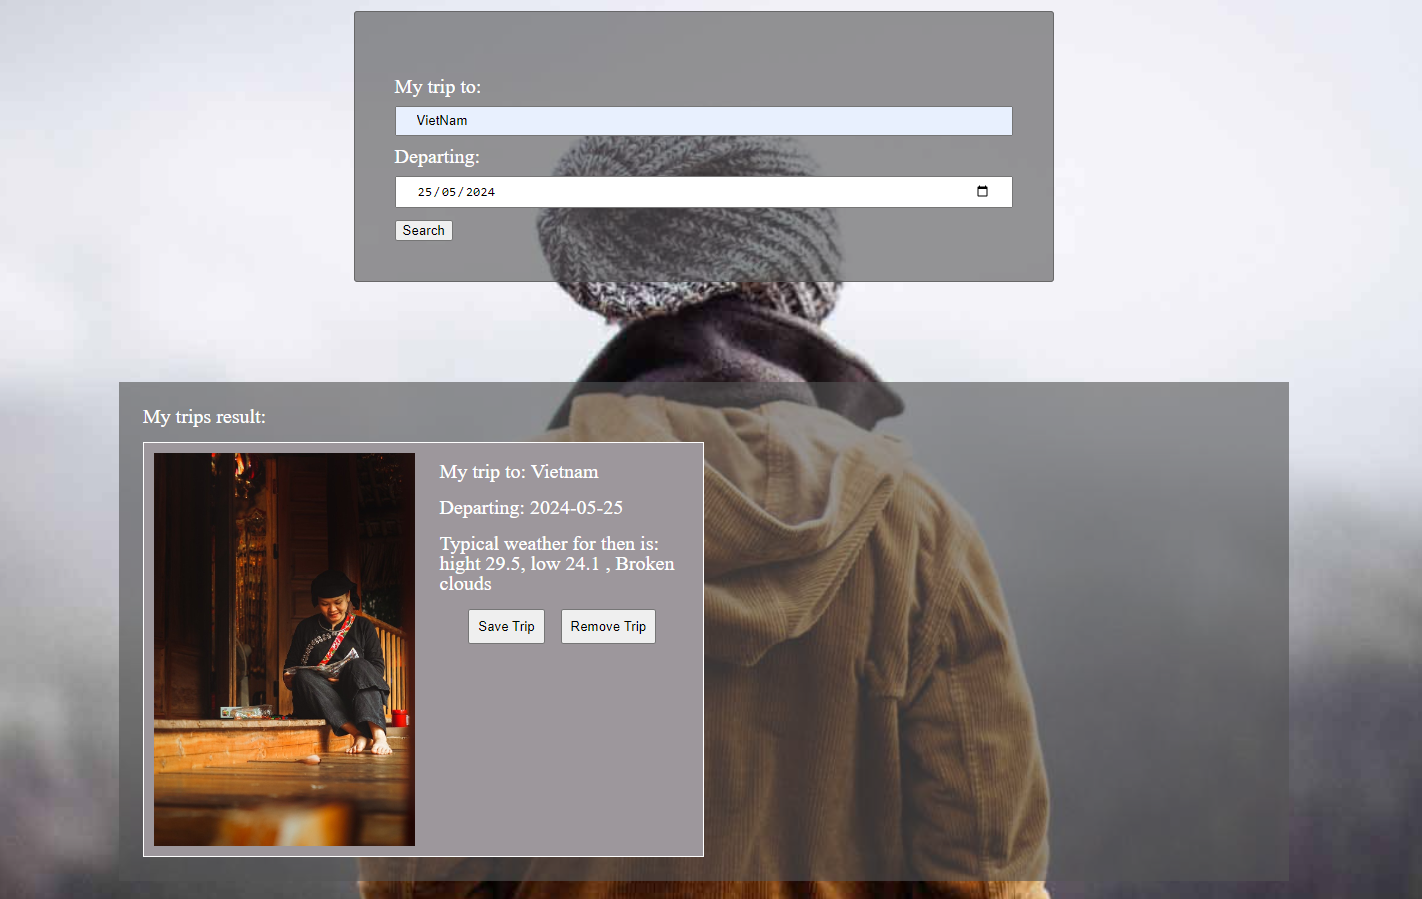
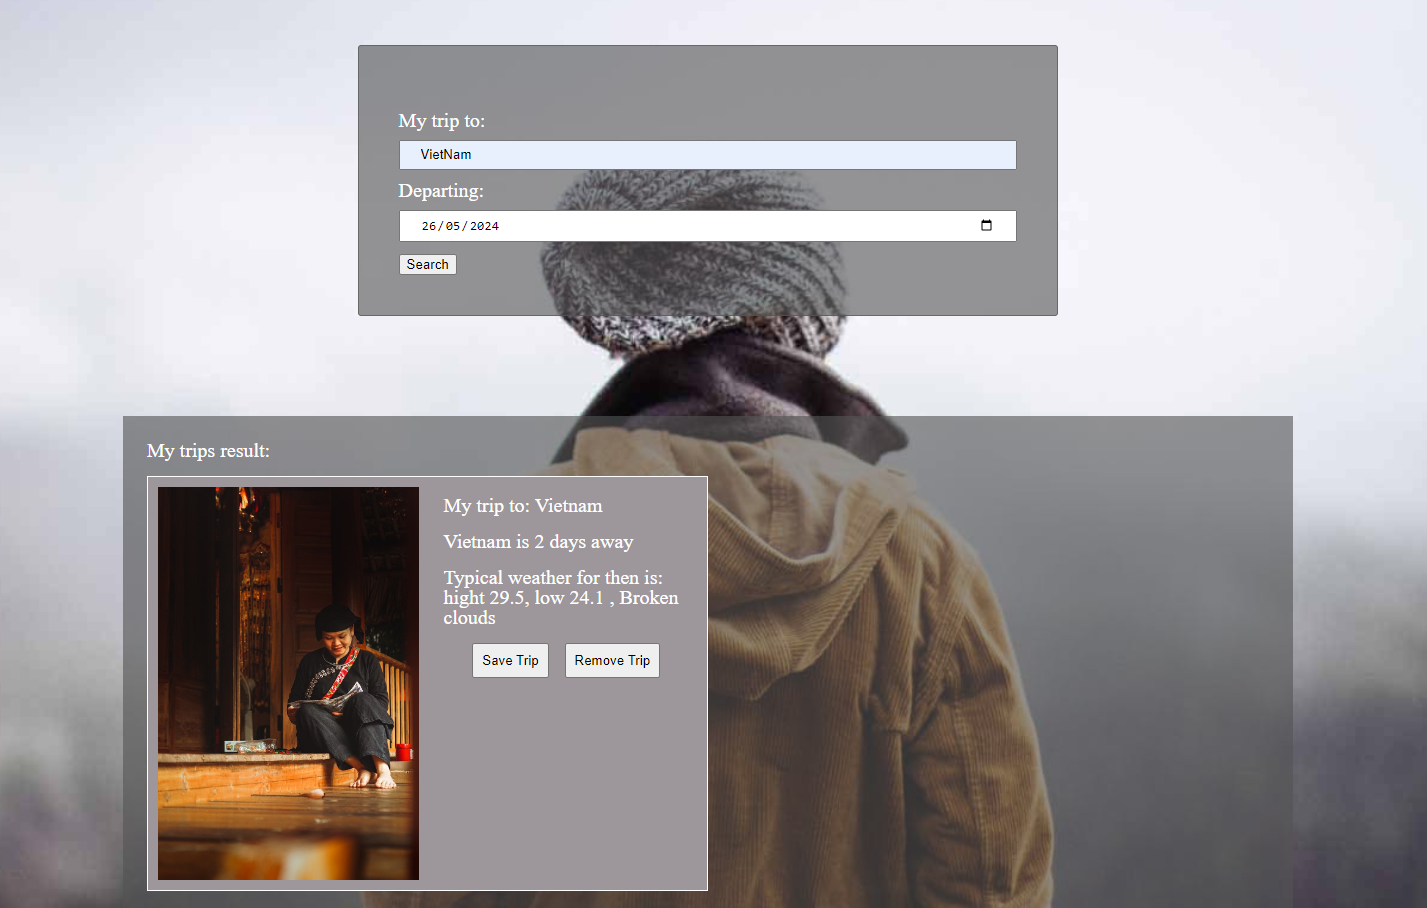
update code

diff --git a/src/client/js/formHandler.js b/src/client/js/formHandler.js
@@ -1,5 +1,5 @@
 // Replace checkForName with a function that checks the URL
-import { updateTripResultUI } from './utils';
+import { updateTripResultUI, getDurationDay } from './utils';
 const axios = require('axios');
 const destinationServerURL = 'http://localhost:8085/destination';
 const weatherServerURL = 'http://localhost:8085/weather';
@@ -12,24 +12,27 @@ const handleSubmitAction = async (event) => {
   event.preventDefault();
   // Get values input from the input field
   const tripCard = document.getElementById('trip-card');
-  tripCard.style.display = "none";
+  tripCard.style.display = 'none';
   const inputForm = document.getElementById('urlForm');
   const destination = document.getElementById('destination').value;
   const datePlanner = document.getElementById('date-planner').value;
   // Check if values input is not empty
+  
   if (destination !== '' && datePlanner !== '') {
-    //get the location first and make sure call is successful
-    destinationInfo = await getDestinationInfo(inputForm);
-    console.log('destinationInfo', destinationInfo);
-    if (destinationInfo) {
-      weatherInfo = await getWeatherInfo(destinationInfo.latitude, destinationInfo.longitude);
-      console.log('WeatherInfo', weatherInfo);
-      imgUrl = await getImageOfDestination(destinationInfo.country);
-      console.log('imgUrl', imgUrl);
-
-      if (weatherInfo && imgUrl) {
-        updateTripResultUI(destinationInfo, weatherInfo, imgUrl, datePlanner, tripCard)
+    const durationsDay = getDurationDay(datePlanner)
+    console.log('durationsDay', durationsDay);
+    if (durationsDay > 0) {
+      //get the location first and make sure call is successful
+      destinationInfo = await getDestinationInfo(inputForm);
+      if (destinationInfo) {
+        weatherInfo = await getWeatherInfo(destinationInfo.latitude, destinationInfo.longitude);
+        imgUrl = await getImageOfDestination(destinationInfo.country);
+        if (weatherInfo && imgUrl) {
+          updateTripResultUI(destinationInfo, weatherInfo, imgUrl, tripCard, durationsDay)
+        }
       }
+    } else {
+      showError('Please enter a future date')
     }
   } else {
     showError('Please enter country name and date!')

diff --git a/src/client/js/utils.js b/src/client/js/utils.js
@@ -1,10 +1,11 @@
 
-const updateTripResultUI = async (destinationInfo, weatherInfo, imgUrl, datePlanner, tripCard) => {
+const updateTripResultUI = (destinationInfo, weatherInfo, imgUrl, tripCard, durationsDay) => {
+  tripCard.style.display = "none";
   const img = document.getElementById('img-src');
   if (destinationInfo && weatherInfo && imgUrl) {
     tripCard.style.display = "flex";
     document.getElementById('country-name').innerHTML = `My trip to: ${destinationInfo?.country}`;
-    document.getElementById('departing').innerHTML = `Departing: ${datePlanner}`;
+    document.getElementById('departing').innerHTML = `${destinationInfo?.country} is ${durationsDay} days away`;
     document.getElementById('wheather-info').innerHTML = `Typical weather for then is: \n hight ${weatherInfo?.highTemp}, low ${weatherInfo?.lowTemp} 
     \n,  ${weatherInfo?.weatherDiscription?.description}`;
     img.setAttribute('src', imgUrl);
@@ -16,4 +17,14 @@ const updateTripResultUI = async (destinationInfo, weatherInfo, imgUrl, datePlan
   }
 };
 
-export { updateTripResultUI };
+const getDurationDay = (dateInput) => {
+  const dateTime = 24 * 60 * 60 * 1000; // hours*minutes*seconds*milliseconds
+  const firstDate = new Date();
+  const secondDate = new Date(dateInput);
+  
+  const remainingDay = Math.ceil((secondDate.getTime() - firstDate.getTime()) / dateTime);
+  console.log('remainingDay', remainingDay);
+  return remainingDay;
+}
+
+export { updateTripResultUI, getDurationDay };

diff --git a/_test_/utils.spec.js b/_test_/utils.spec.js
@@ -1,9 +1,13 @@
-import { updateTripResultUI } from '../src/client/js/utils'
+import { updateTripResultUI, getDurationDay } from '../src/client/js/utils'
   
 describe("Testing the submit functionality", () => {
   // The test() function has two arguments - a string description, and an actual test as a callback function.  
   test("Testing the updateTripResultUI() function", () => {
     expect(updateTripResultUI).toBeDefined();
+  })
+
+  test("Testing the getDurationDay() function", () => {
+    expect(getDurationDay).toBeDefined();
   })
 });
 

diff --git a/src/client/index.js b/src/client/index.js
@@ -1,5 +1,5 @@
 // import js files
-import { updateTripResultUI } from './js/utils'
+import { updateTripResultUI, getDurationDay } from './js/utils'
 import { handleSubmitAction } from './js/formHandler'
 
 // sass files
@@ -15,5 +15,6 @@ console.log("CHANGE!!");
 
 export {
   updateTripResultUI,
-  handleSubmitAction
+  handleSubmitAction,
+  getDurationDay
 }
